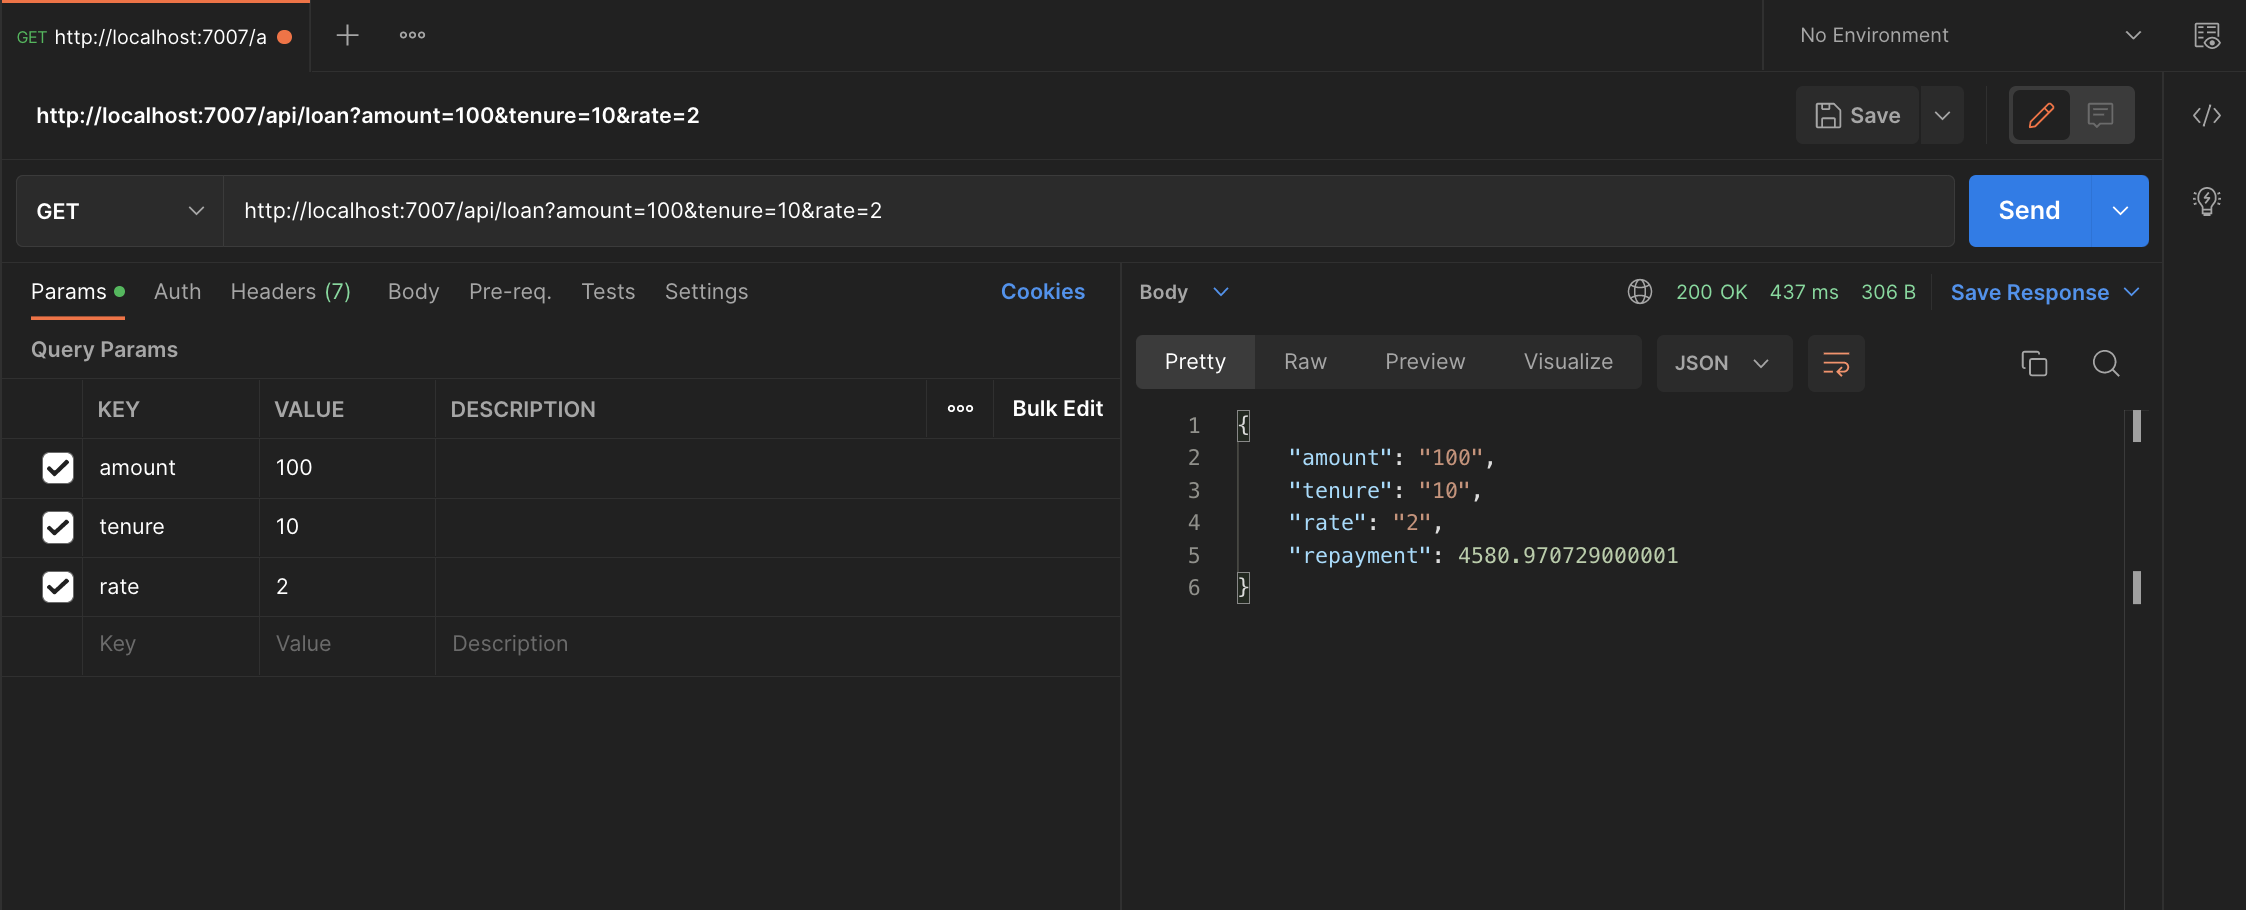
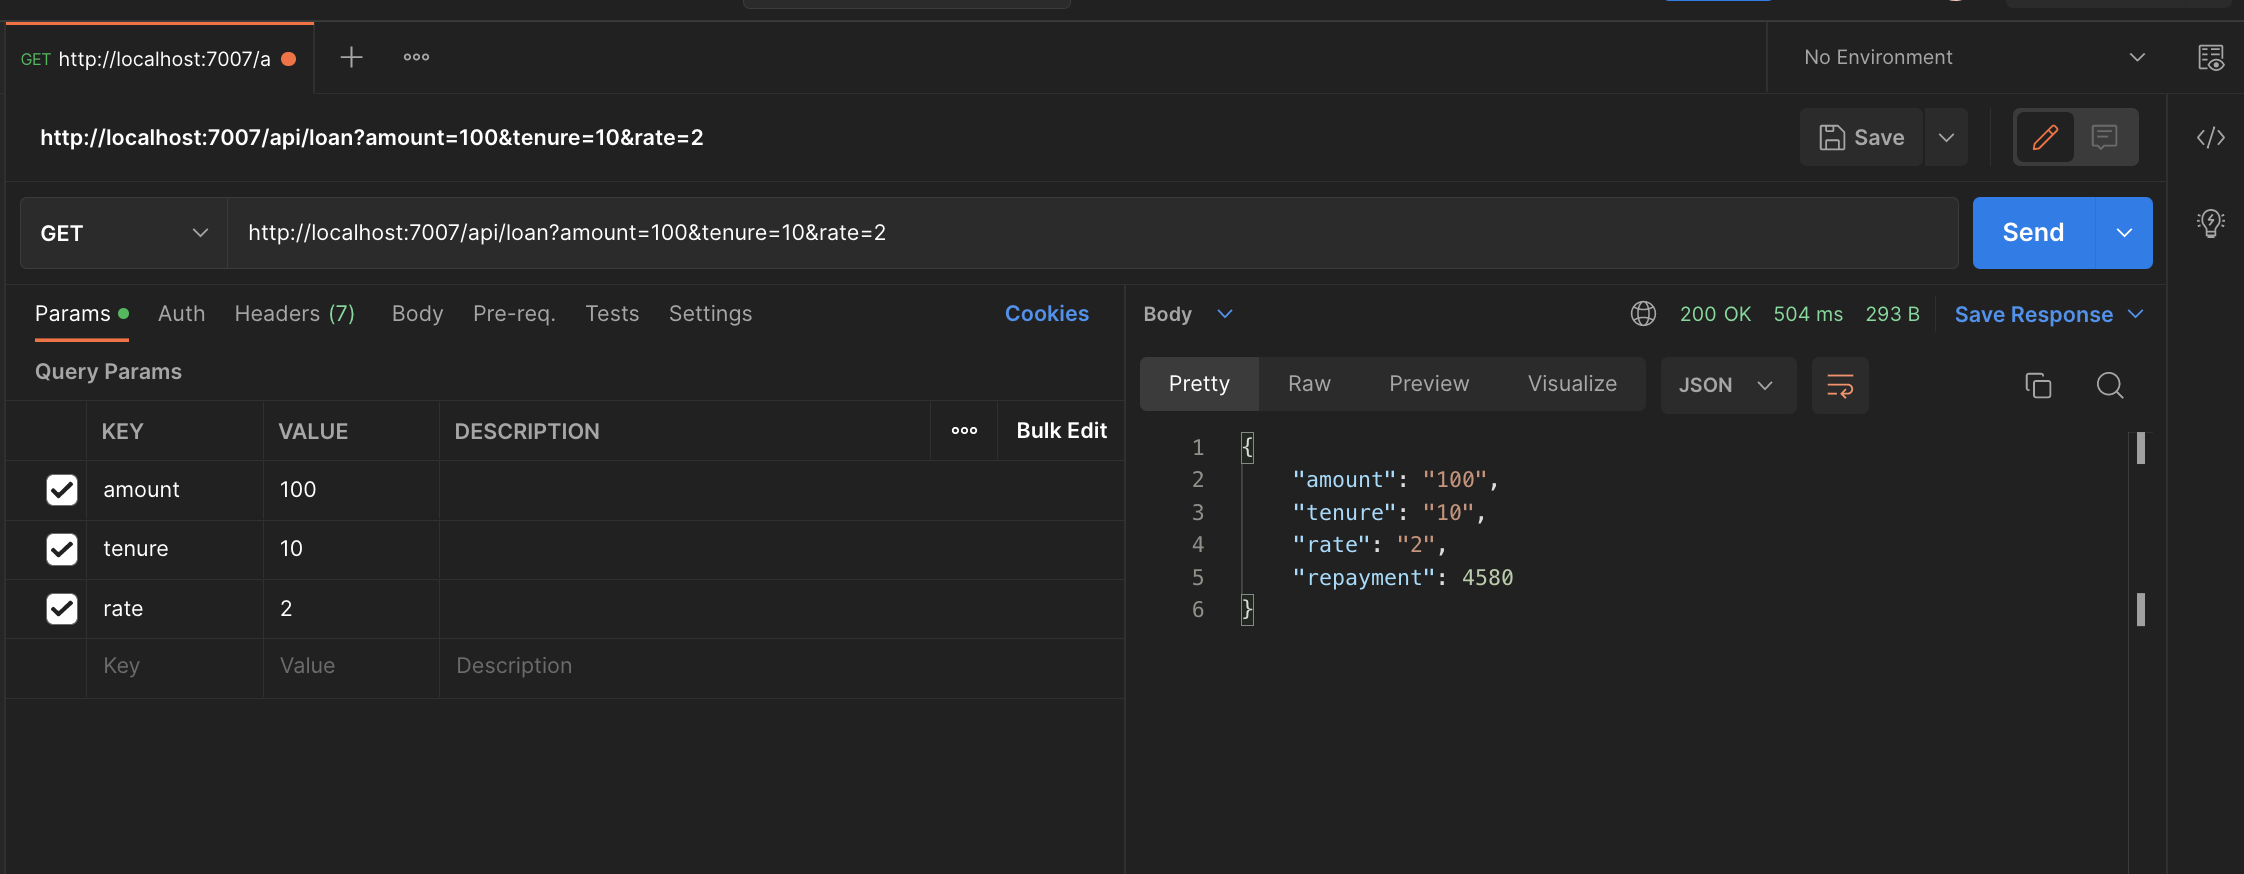
readme update

diff --git a/src/loanCalculator.ts b/src/loanCalculator.ts
@@ -11,7 +11,7 @@ export const loanCalc = async function (amount: number, tenure: number, rate: nu
     const convertedRepayment = await getExchangeRate('USD', 'NGN', totalRepayment, environment)
 
     // return the converted amount
-    return convertedRepayment;
+    return Math.ceil(parseInt(convertedRepayment.toString()) * 100) / 100;
 }
 
 export const getExchangeRate = async function(baseCurrency: string, targetCurrency: string, amount: number, environment: string) {
